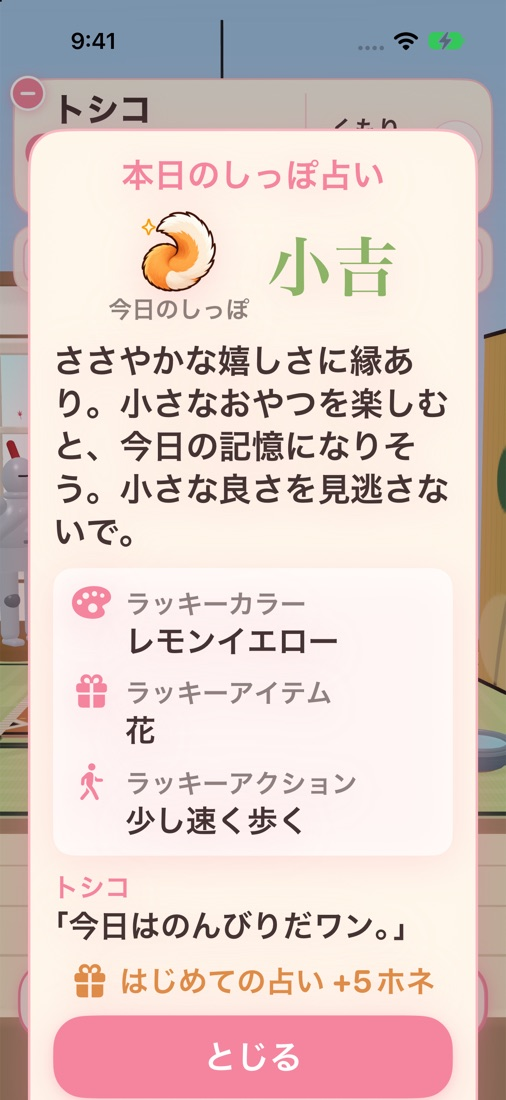
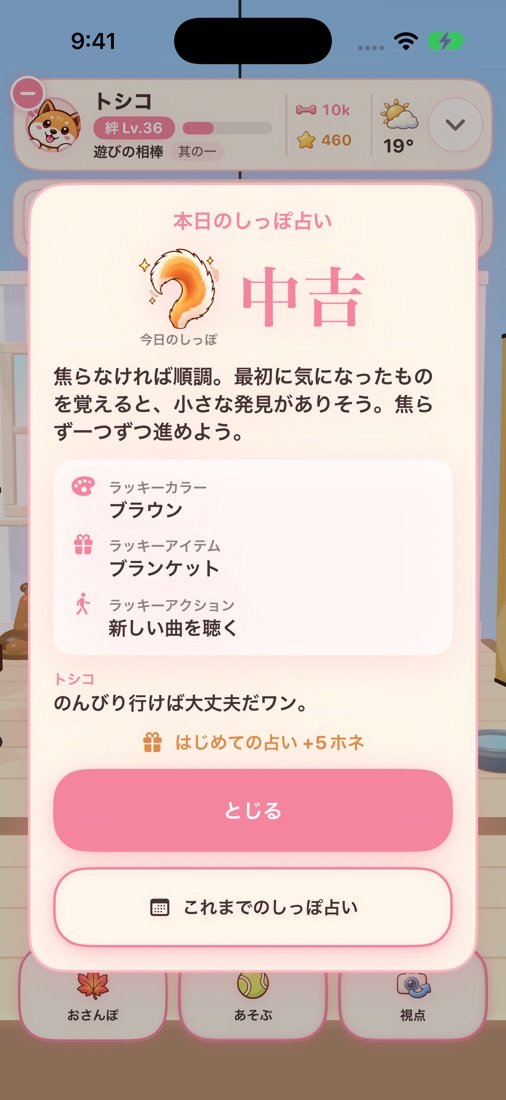
Site: pictures with the current Toshiko -- room with antiques, paw signal, Masato, the shrine assistant, fortune, bath, the four seasons in their outfits, and two town shots (an art studio and a shrine on Cat Street); the sharper title art; alt text to match

diff --git a/index.html b/index.html
@@ -142,7 +142,7 @@
         <figure><img src="/img/s_ja_trick.jpg" width="506" height="1100" loading="lazy" alt="丸の上に指を置いて「お手」を教える画面"><figcaption>合図で芸を教える</figcaption></figure>
         <figure><img src="/img/s_ja_neighbor.jpg" width="506" height="1100" loading="lazy" alt="柔道の先生、黒田正人さんと話すお散歩中の場面"><figcaption>顔なじみのご近所さん</figcaption></figure>
         <figure><img src="/img/s_ja_shrine.jpg" width="506" height="1100" loading="lazy" alt="神社の前で掃除をする巫女さんに出会う場面"><figcaption>神社の巫女さん</figcaption></figure>
-        <figure><img src="/img/s_ja_fortune.jpg" width="506" height="1100" loading="lazy" alt="しっぽ占いの結果。小吉とラッキーカラー"><figcaption>しっぽ占い</figcaption></figure>
+        <figure><img src="/img/s_ja_fortune.jpg" width="506" height="1100" loading="lazy" alt="しっぽ占いの結果。中吉とラッキーカラー"><figcaption>しっぽ占い</figcaption></figure>
         <figure><img src="/img/s_ja_bath.jpg" width="506" height="1100" loading="lazy" alt="お風呂で泡だらけのトシコ"><figcaption>あわあわお風呂</figcaption></figure>
       </div>
     </div>
@@ -151,8 +151,8 @@
   <section data-reveal id="town">
     <div class="wrap town">
       <div class="pics">
-        <img src="/img/town_street.jpg" width="460" height="1000" loading="lazy" alt="パステルカラーのお店が並ぶ通り">
-        <img src="/img/town_aerial.jpg" width="460" height="1000" loading="lazy" alt="上から見たお散歩道と町並み">
+        <img src="/img/town_street.jpg" width="460" height="1000" loading="lazy" alt="キャットストリートの小さなアトリエの前を歩くトシコ">
+        <img src="/img/town_aerial.jpg" width="460" height="1000" loading="lazy" alt="赤いのぼりが立つ、お散歩道の小さな神社">
       </div>
       <div>
         <h2 style="text-align:left">絵本のような町を歩こう</h2>

diff --git a/en/index.html b/en/index.html
@@ -142,7 +142,7 @@
         <figure><img src="/img/s_en_trick.jpg" width="506" height="1100" loading="lazy" alt="Teaching Paw: hold your finger on the circle"><figcaption>Teach tricks with hand signals</figcaption></figure>
         <figure><img src="/img/s_en_neighbor.jpg" width="506" height="1100" loading="lazy" alt="Chatting with Masato, the judo teacher, on a walk"><figcaption>Neighbors you get to know</figcaption></figure>
         <figure><img src="/img/s_en_shrine.jpg" width="506" height="1100" loading="lazy" alt="Meeting the shrine maiden sweeping in front of a shrine"><figcaption>The shrine maiden</figcaption></figure>
-        <figure><img src="/img/s_en_fortune.jpg" width="506" height="1100" loading="lazy" alt="A Fortune Tail result: Small Luck, with a lucky color"><figcaption>Fortune Tail</figcaption></figure>
+        <figure><img src="/img/s_en_fortune.jpg" width="506" height="1100" loading="lazy" alt="A Fortune Tail result: Middle Luck, with a lucky color"><figcaption>Fortune Tail</figcaption></figure>
         <figure><img src="/img/s_en_bath.jpg" width="506" height="1100" loading="lazy" alt="Toshiko covered in bubbles at bath time"><figcaption>Bath time</figcaption></figure>
       </div>
     </div>
@@ -151,8 +151,8 @@
   <section data-reveal id="town">
     <div class="wrap town">
       <div class="pics">
-        <img src="/img/town_street.jpg" width="460" height="1000" loading="lazy" alt="A street lined with pastel shops">
-        <img src="/img/town_aerial.jpg" width="460" height="1000" loading="lazy" alt="The walking path and town from above">
+        <img src="/img/town_street.jpg" width="460" height="1000" loading="lazy" alt="Toshiko walking past a small art studio on Cat Street">
+        <img src="/img/town_aerial.jpg" width="460" height="1000" loading="lazy" alt="A little shrine with red banners along the walk">
       </div>
       <div>
         <h2 style="text-align:left">A storybook town to stroll through</h2>
